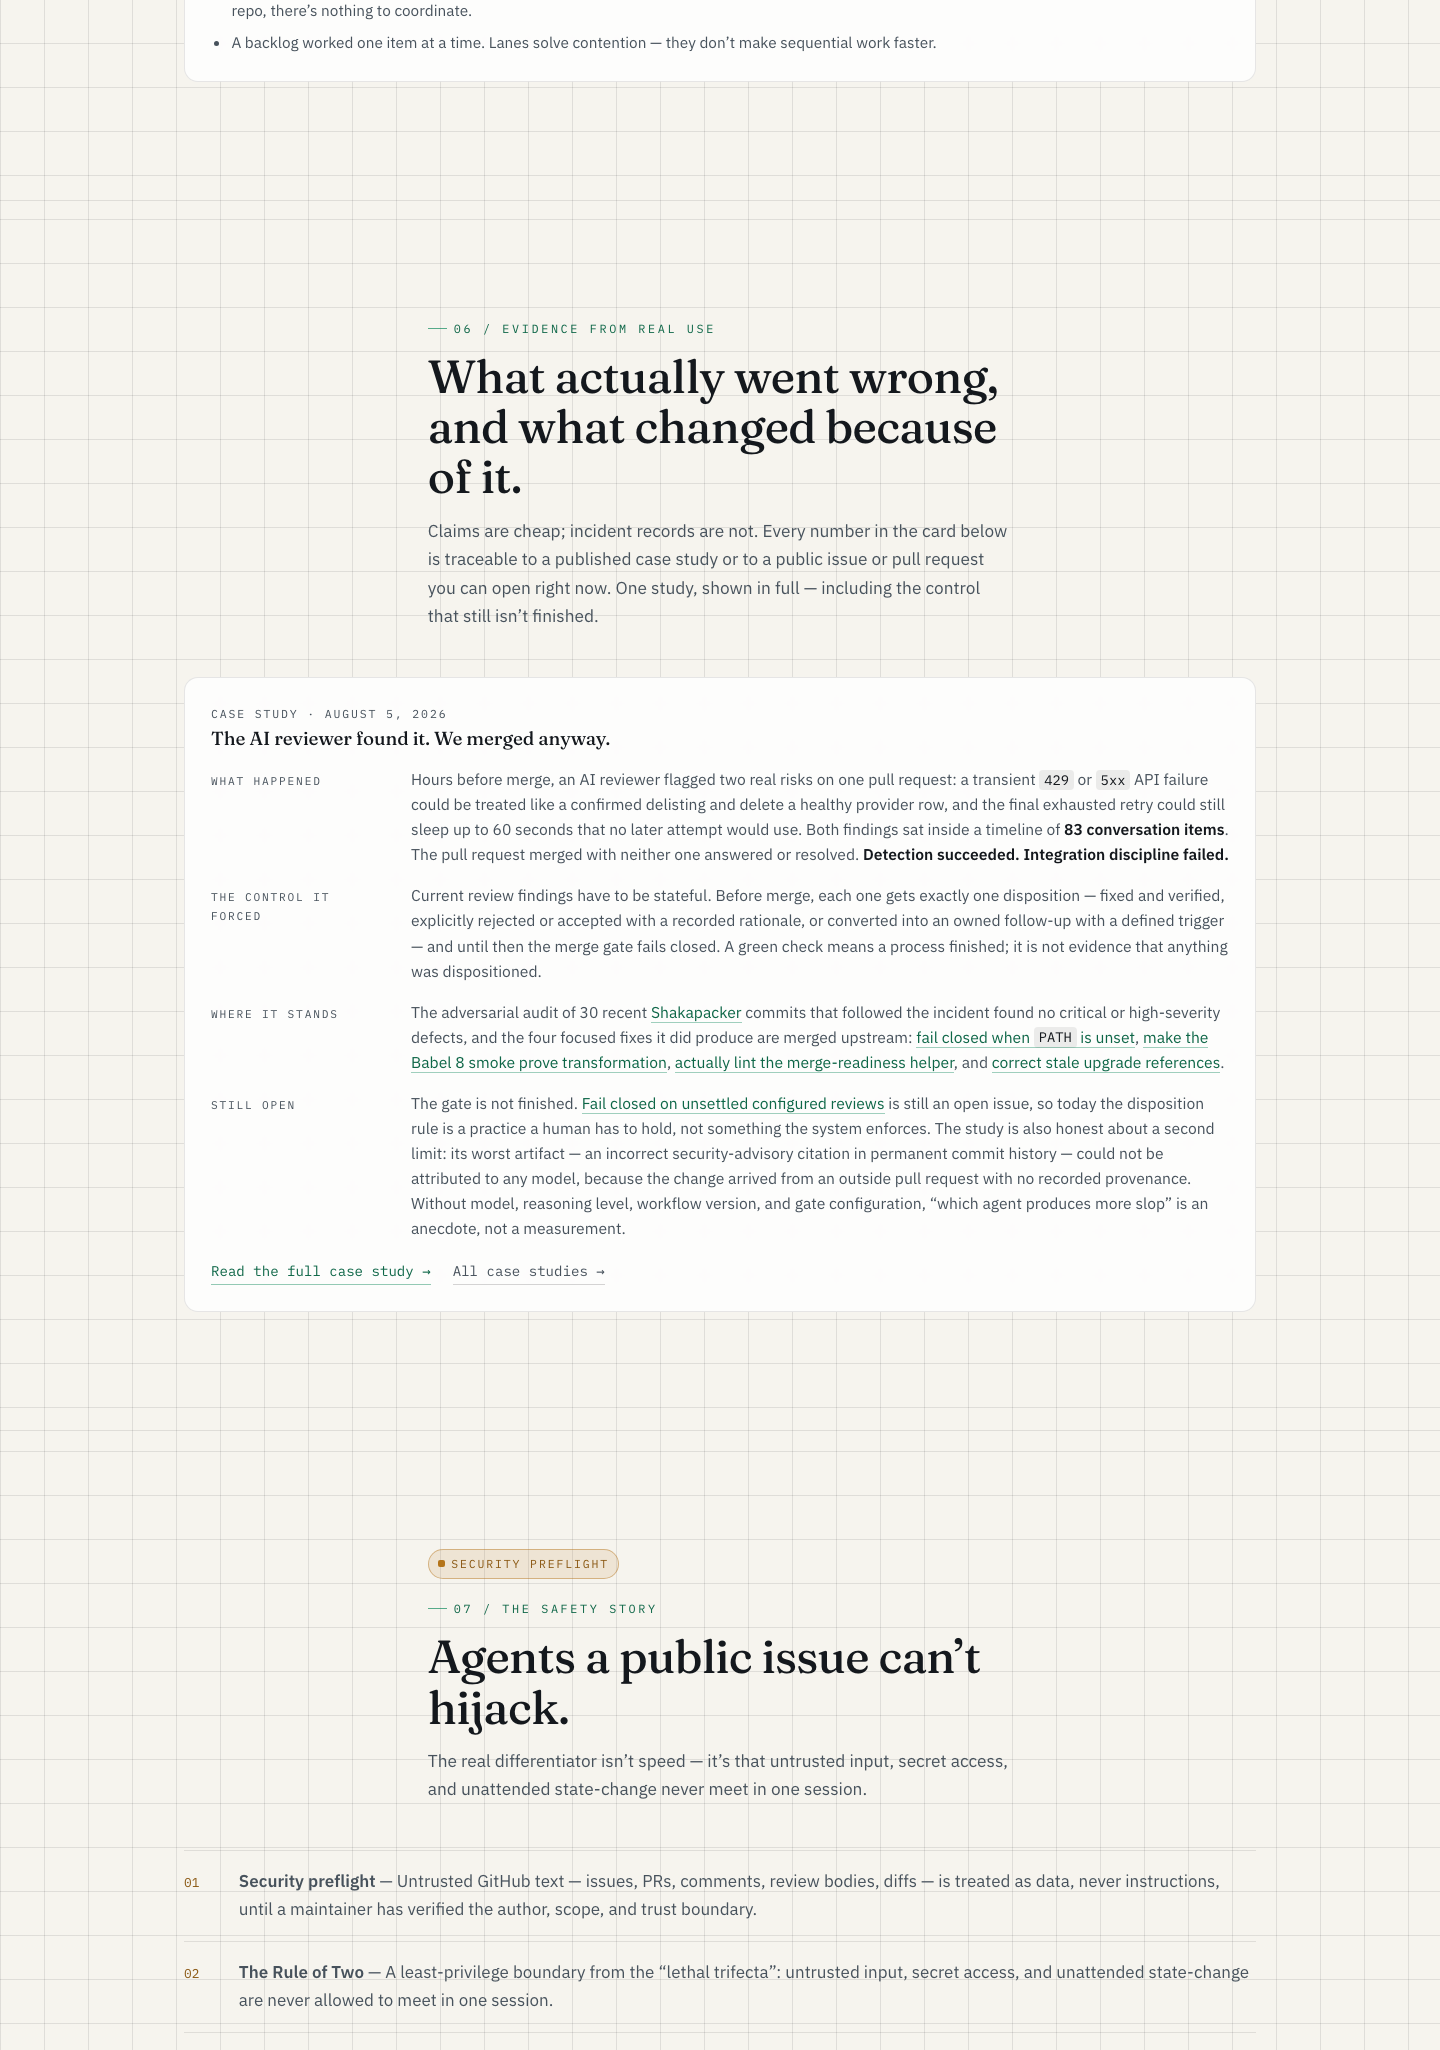
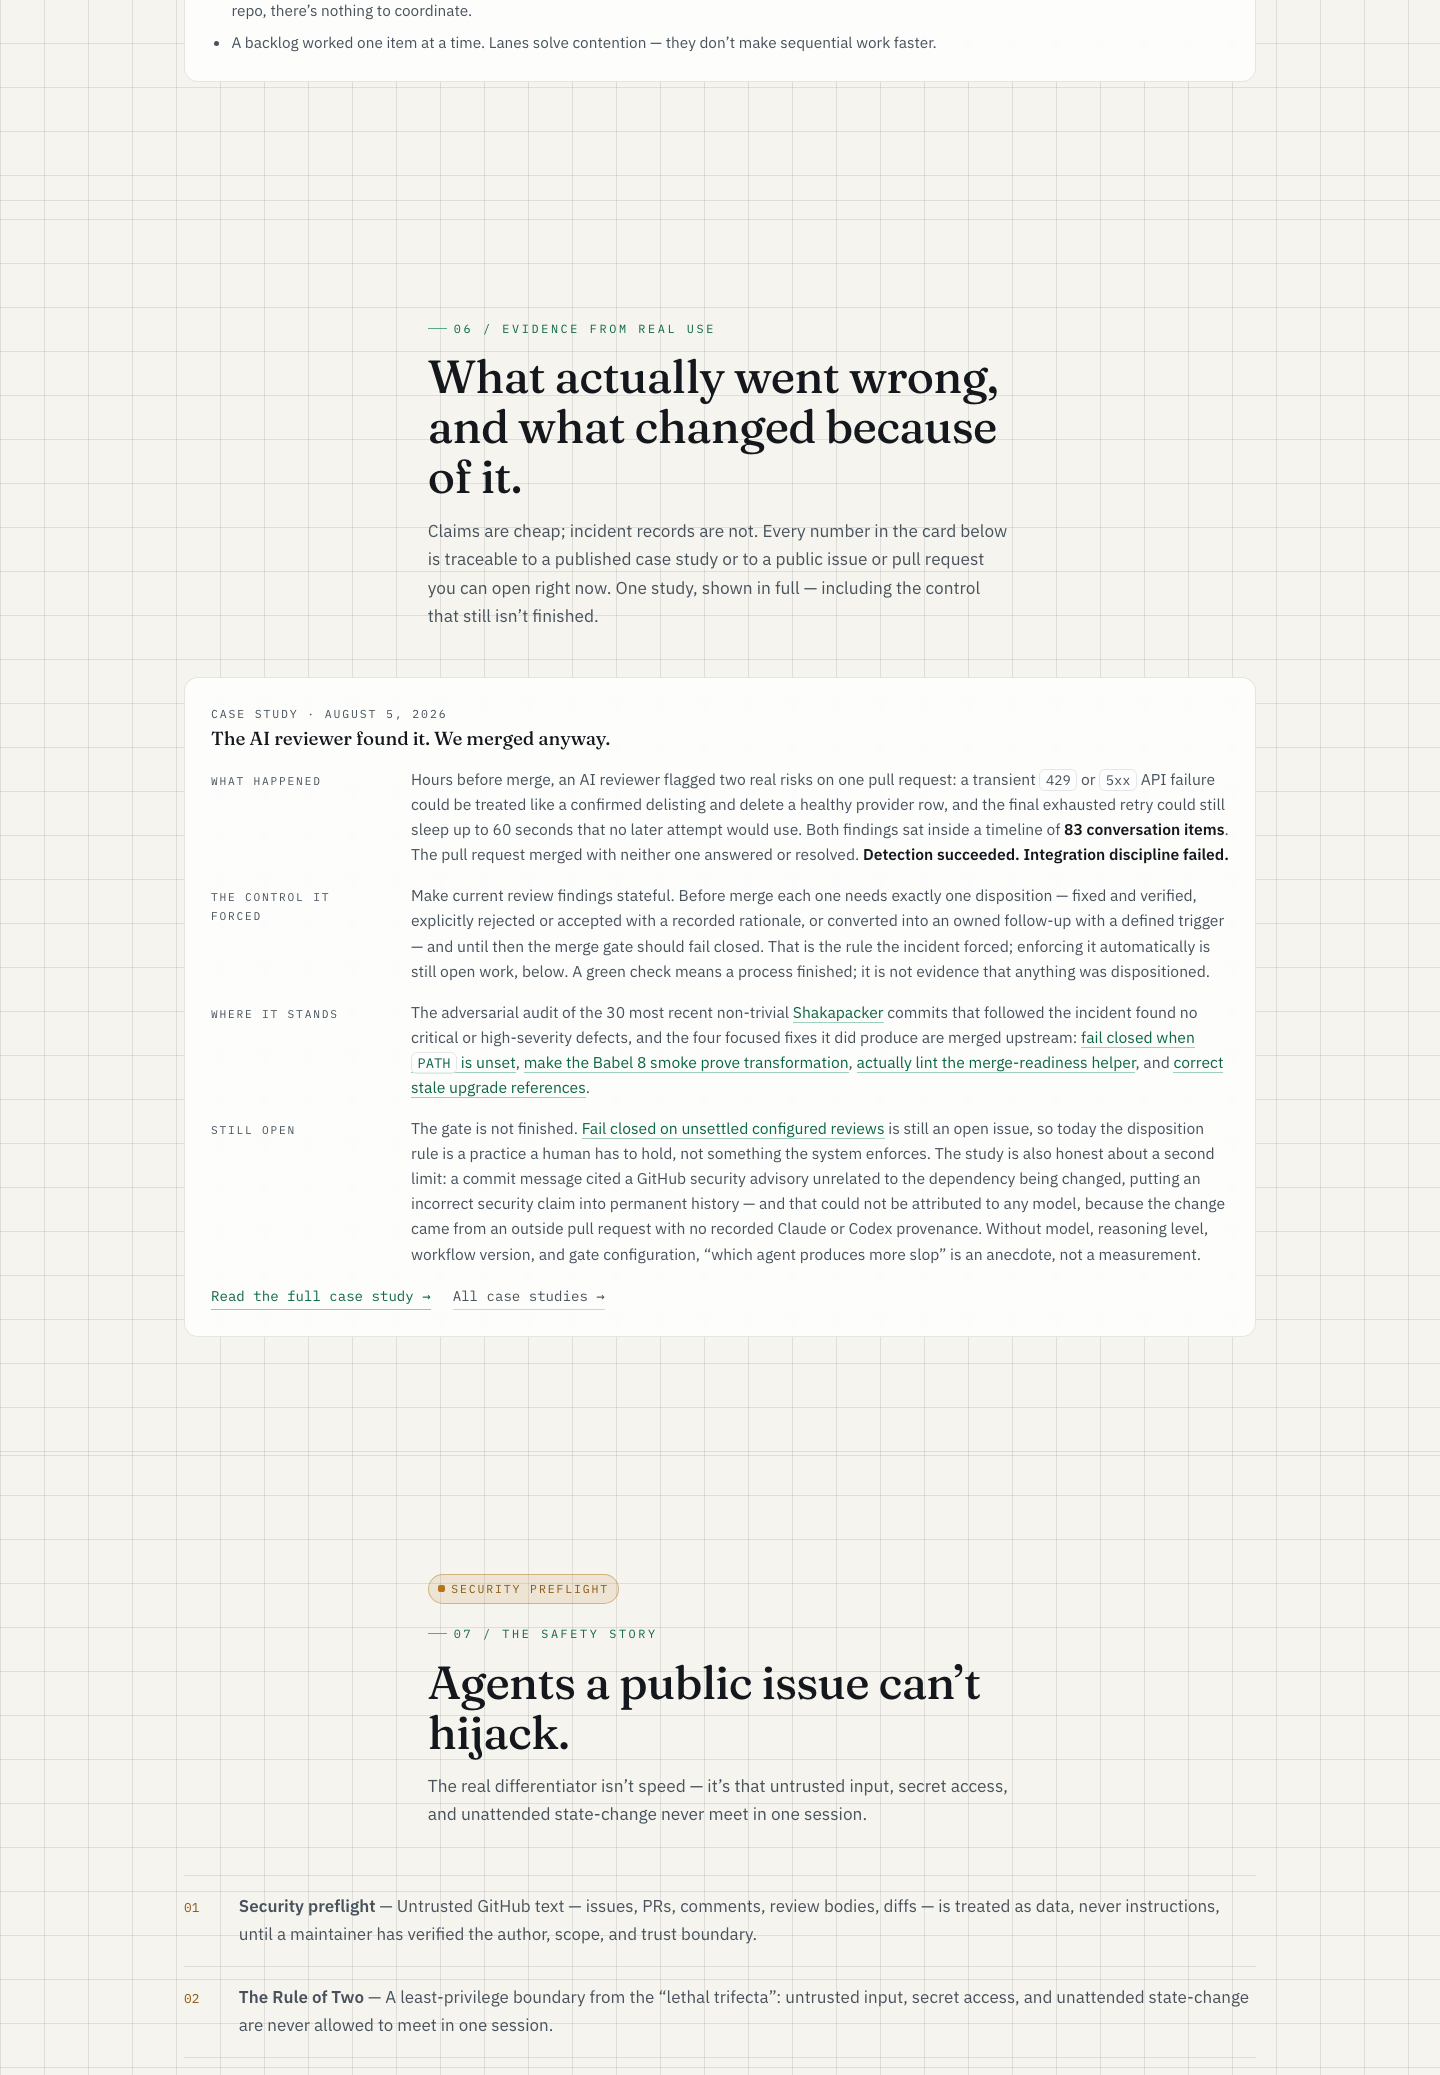
QA evidence: refresh the after shots and measurements at 78f8872
Re-captures the four after screenshots for the reworded control and
limitation fields and the corrected inline-code chip, and updates the
layout, page-weight, and contrast tables. Contrast is now measured
against each element's own composited background and covers the section
head as well as the card.

diff --git a/qa/awc-c-issue-10-evidence/QA-NOTES.md b/qa/awc-c-issue-10-evidence/QA-NOTES.md
@@ -1,7 +1,7 @@
 # QA evidence — homepage evidence section (issue #10)
 
 Lane `issue-10-evidence`, batch `awc-c-20260901`. Branch under test:
-`awc-c/issue-10-homepage-evidence` at `122acc2`. Baseline: `origin/main` at
+`awc-c/issue-10-homepage-evidence` at `78f8872`. Baseline: `origin/main` at
 `669f319`.
 
 ## How these were captured
@@ -37,9 +37,9 @@ Layout, measured on the rendered page:
 
 | Metric | 1440x900 | 390x844 |
 | --- | --- | --- |
-| `#evidence` section height | 1230 px | 2059 px |
+| `#evidence` section height | 1255 px | 2209 px |
 | Homepage height, before | 11060 px | 16611 px |
-| Homepage height, after | 12291 px | 18694 px |
+| Homepage height, after | 12316 px | 18820 px |
 | Horizontal overflow (`scrollWidth - innerWidth`), after | 0 px | 0 px |
 
 No horizontal overflow at either width, in either scheme. At 1440 the card's
@@ -51,29 +51,45 @@ Page weight — `dist/index.html` plus every local asset it links:
 | Build | index.html | Total (HTML + CSS + favicon) |
 | --- | --- | --- |
 | `origin/main` (669f319) | 35,523 B | 67,958 B (66.4 KB) |
-| this branch (122acc2) | 39,925 B | 74,501 B (72.8 KB) |
-| delta | +4,402 B | +6,543 B (+6.4 KB) |
+| this branch (78f8872) | 40,121 B | 74,714 B (73.0 KB) |
+| delta | +4,598 B | +6,756 B (+6.6 KB) |
+
+Sizes are 1024-base KB.
 
 No image was added. The case study's cover art
-(`public/images/case-studies/ai-audit/cover.png`) is 156 KB on its own, which
-already exceeds the 150 KB budget this lane was given for reusing it, so the
-card is text-only and the homepage gains 6.4 KB of HTML and scoped CSS instead.
+(`public/images/case-studies/ai-audit/cover.png`) is 155,692 B — 152.0 KB — on
+its own, which already exceeds the 150 KB budget this lane was given for
+reusing it, so the card is text-only and the homepage gains 6.6 KB of HTML and
+scoped CSS instead.
 
-Contrast, computed from the rendered colors against the composited card
-background (alpha flattened), at 1440 in both schemes:
+Contrast, computed at 1440 in both schemes from the rendered colors against
+each element's own effective background — the ancestor chain is walked and every
+layer composited down, so the card's `0.82` alpha surface is accounted for:
 
 | Element | Dark | Light |
 | --- | --- | --- |
+| Section eyebrow (`.eyebrow`, 11.8 px) | 13.61:1 | 6.35:1 |
+| Section `h2` (46.4 px) | 16.29:1 | 16.21:1 |
+| Section intro `p` (17.3 px) | 8.90:1 | 7.26:1 |
+| Card date tag (11.5 px) | 8.16:1 | 7.85:1 |
 | Card title (`h3`, 18.9 px) | 14.93:1 | 17.53:1 |
 | Field labels (`dt`, 11.2 px) | 8.16:1 | 7.85:1 |
 | Field prose (`dd`, 15.7 px) | 8.16:1 | 7.85:1 |
+| Inline `code` chip (13.8 px) | 8.02:1 | 7.95:1 |
 | Inline links in prose | 12.47:1 | 6.86:1 |
 | "Read the full case study" link | 12.47:1 | 6.86:1 |
 | "All case studies" link | 8.16:1 | 7.85:1 |
 
-Every value clears WCAG AA (4.5:1) for normal text in both themes. The card
-reuses `--ink`, `--ink-dim`, `--brand-ink`, and `--line-strong` from
-`global.css`; it defines no colors of its own.
+Every value clears WCAG AA (4.5:1) for normal text in both themes. The lowest,
+6.35:1, is the section eyebrow — that is the site's existing `.eyebrow` class
+rendering `--brand-ink` on the page background, not anything this section
+introduces; it passes AA and is unchanged from every other section head.
+
+The card reuses `--ink`, `--ink-dim`, `--brand-ink`, `--surface`, `--line`, and
+`--line-strong` from `global.css` and defines no colors of its own. Its inline
+`code` chip copies the site's inline-code recipe verbatim from
+`global.css:202-203` (`.doc-body code` and `.doc-body :not(pre) > code`), which
+is `.doc-body`-scoped and so cannot reach the homepage on its own.
 
 ## Rendered-copy check
 
@@ -82,7 +98,8 @@ All eight links inside the built `#evidence` section were resolved against
 exist in the built site, and the six external links are all on
 `github.com/shakacode/`. The section's rendered text was also scanned for the
 JSX whitespace-fusion pattern that the second commit fixes
-(`/[a-z][A-Z0-9]|,[a-z]/`) — zero matches at `122acc2`.
+(`/[a-z][A-Z0-9]|,[a-z]/`) — the only candidate at `78f8872` is the `tH` inside
+"GitHub", which is a legitimate intra-word capital, not a fused boundary.
 
 ## Validation at this head
 
